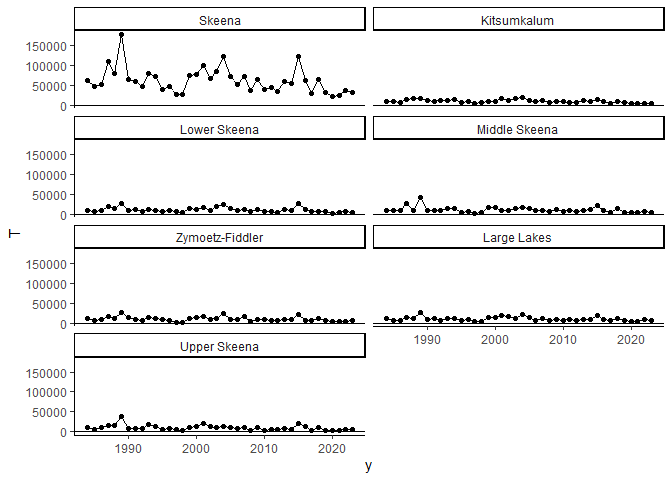
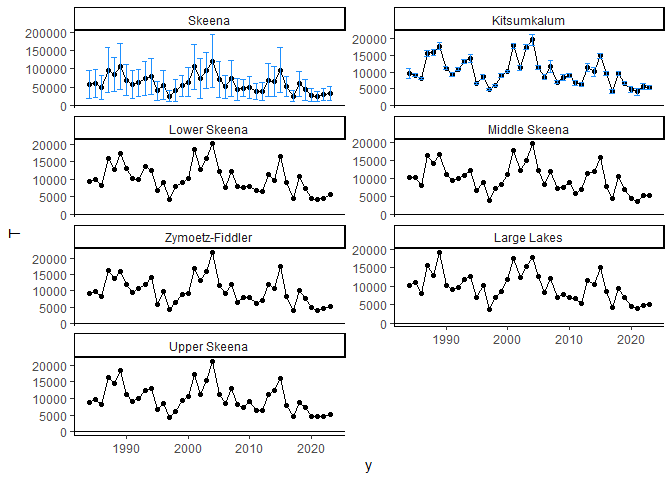
Update readme

diff --git a/README.md b/README.md
@@ -1,0 +1,93 @@
+
+<!-- README.md is generated from README.Rmd. Please edit that file -->
+
+# skrunchy
+
+<!-- badges: start -->
+<!-- badges: end -->
+
+**Sk**eena River **Run** Reconstruction for **Ch**inook Salmon
+
+The goal of skrunchy is to recreate and update the run reconstruction
+for Skeena River (summer run timing) Chinook upstream of Tyee test
+fishery, as documented in [Winther et
+al. 2024](https://publications.gc.ca/site/eng/9.901355/publication.html "An assessment of Skeena River Chinook salmon using genetic stock identification 1984 to 2020")
+
+## Installation
+
+You can install the development version of skrunchy from
+[GitHub](https://github.com/) with:
+
+    install.packages("pak")
+    pak::pak("Pacific-salmon-assess/skrunchy")
+
+``` r
+library(skrunchy)
+#> Loading required package: abind
+#> Loading required package: here
+#> here() starts at C:/github/skrunchy
+library(ggplot2)
+```
+
+## Example
+
+Make some fake genetic proportion and catch data, expand to estimates of
+annual proportions, and plot:
+
+``` r
+
+d <- make_P_G()
+res <- get_P_tilde(P = d$P, sigma_P = d$sigma_P, G = d$G)
+dp <- res$df_merged
+
+ggplot(dp, aes(y = P_tilde, x = y, group = i)) +
+  geom_errorbar( aes( ymin = P_tilde - sigma_P_tilde, ymax = P_tilde + sigma_P_tilde ), colour="dodgerblue") +
+  geom_point() +
+  geom_line() +
+  facet_wrap(~i, ncol=2) +
+  geom_hline(aes(yintercept=0)) +
+  theme_classic()
+```
+
+<img src="man/figures/README-example_P_tilde-1.png" width="100%" />
+
+Now do expansions to get returns to Terrace for each population plus the
+aggregate
+
+``` r
+k <- read.csv(here("data/kitsumkalum-escapement.csv"))
+head(k)
+#>   year kitsumkalum_escapement   sd
+#> 1 1984                   9569 1644
+#> 2 1985                   9081  409
+#> 3 1986                   8080  354
+#> 4 1987                  15549  991
+#> 5 1988                  15853  804
+#> 6 1989                  17823 1046
+T <- get_T(P_tilde = res$P_tilde, sigma_P_tilde = res$sigma_P_tilde, K= k$kitsumkalum_escapement, 
+           sigma_K = k$sd,
+           y = k$year)
+dt <- T$df_merged
+
+ggplot(dt, aes(y = T, x = y, group = i)) +
+  #geom_errorbar( aes( ymin = P_tilde - sigma_P_tilde, ymax = P_tilde + sigma_P_tilde ), colour="dodgerblue") +
+  geom_point() +
+  geom_line() +
+  geom_errorbar( aes( ymin = T - sigma_T, ymax = T + sigma_T), colour="dodgerblue") +
+  facet_wrap(~i, ncol=2, scales = "free_y") +
+  geom_hline(aes(yintercept=0)) +
+  theme_classic()
+```
+
+<img src="man/figures/README-example_T-1.png" width="100%" />
+
+<!-- What is special about using `README.Rmd` instead of just `README.md`? You can include R chunks like so: -->
+<!-- ```{r cars} -->
+<!-- #summary(cars) -->
+<!-- ``` -->
+<!-- You'll still need to render `README.Rmd` regularly, to keep `README.md` up-to-date. `devtools::build_readme()` is handy for this. -->
+<!-- You can also embed plots, for example: -->
+<!-- ```{r pressure, echo = FALSE} -->
+<!-- #plot(pressure) -->
+<!-- ``` -->
+<!-- In that case, don't forget to commit and push the resulting figure files, so they display on GitHub and CRAN. -->
